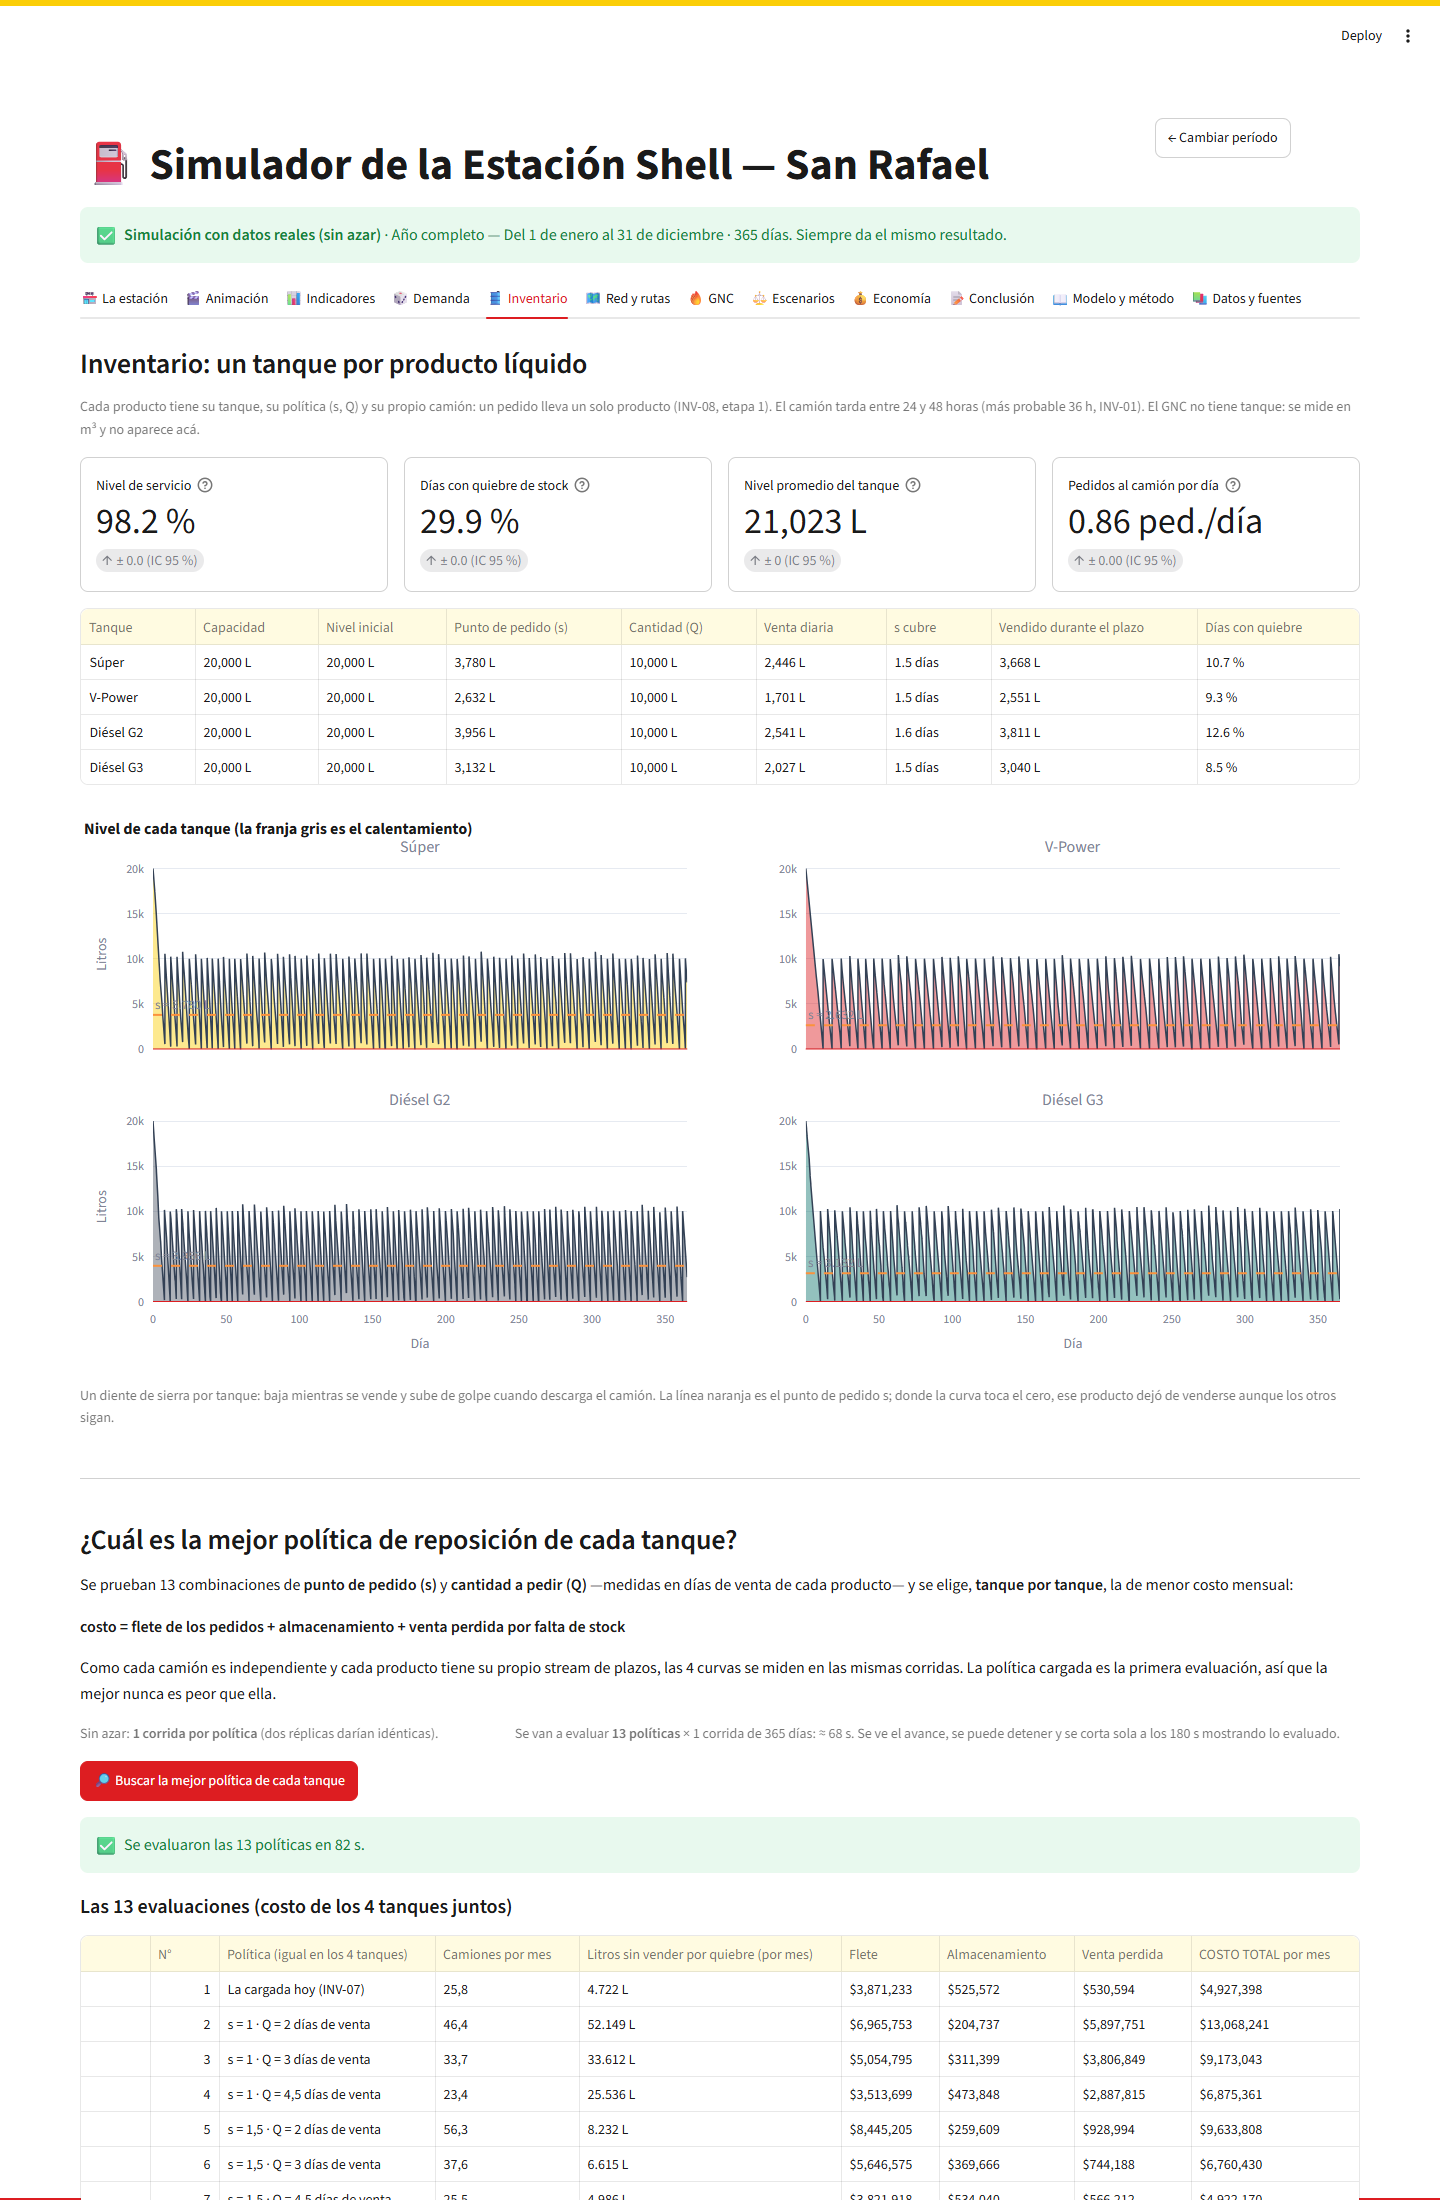
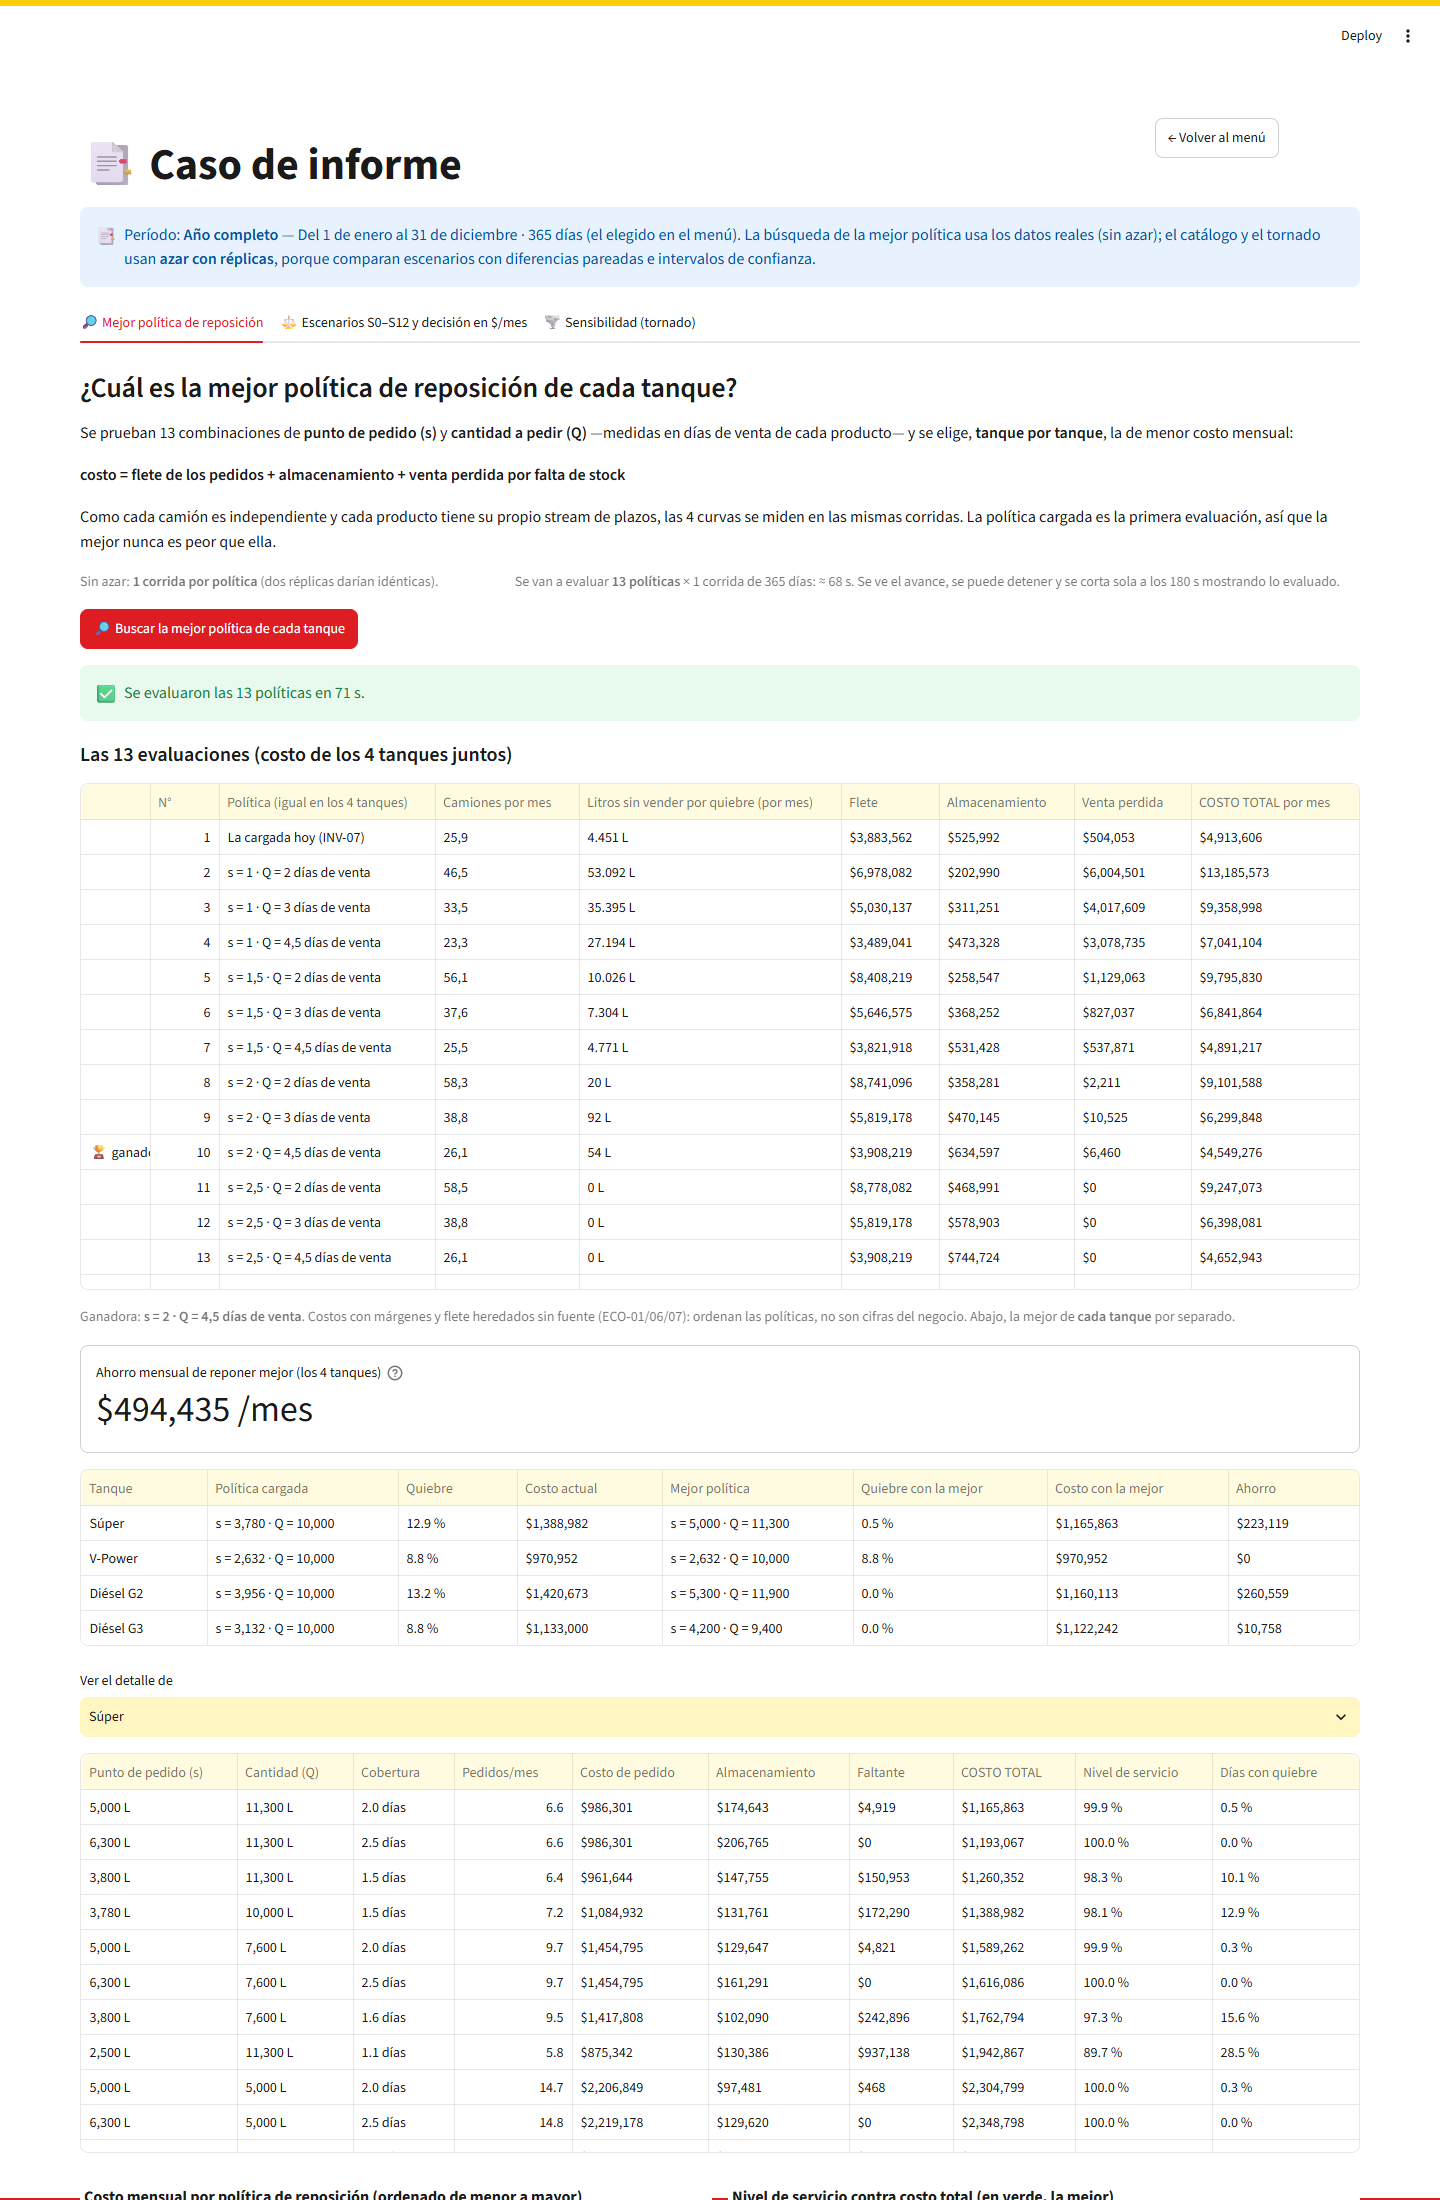
Cierre de la parte 2: CLAUDE.md al día (128 controles, lo que modela la app) y QA de la búsqueda en el caso de informe

Changed region(s): [[0.0312, 0.0618, 0.9688, 1.0]]

diff --git a/reports/qa_tanda0_busqueda.py b/reports/qa_tanda0_busqueda.py
@@ -1,7 +1,7 @@
 """QA de la tanda 0: la búsqueda de la mejor política no se cuelga (año completo).
 
-Corre el año completo con datos reales, aprieta "Buscar la mejor política", hace clics en otras pestañas
-mientras corre (no tiene que reiniciarse) y espera a que muestre las 13 evaluaciones con la ganadora.
+Elige el año completo, abre el Caso de informe (ahí vive la búsqueda desde la tanda 6), aprieta "Buscar la mejor
+política", hace clics en otras pestañas mientras corre (no tiene que reiniciarse) y espera las 13 evaluaciones.
 
     .venv/Scripts/python reports/qa_tanda0_busqueda.py http://localhost:8503 reports/qa/tanda0
 """
@@ -42,10 +42,10 @@ with sync_playwright() as pw:
 
     pagina.locator("[data-testid='stRadio'] label").filter(has_text="Año completo").first.click()
     quieto(30)
-    pagina.get_by_role("button", name="Simular con datos reales").click()
-    pagina.wait_for_selector("text=Simulación con datos reales (sin azar)", timeout=600000)
+    # Desde la tanda 6 la búsqueda vive en el Caso de informe (fuera del flujo normal).
+    pagina.get_by_role("button", name="Abrir el caso de informe").click()
+    pagina.wait_for_selector("text=Caso de informe", timeout=120000)
     quieto()
-    pestania("Inventario")
     t0 = time.time()
     pagina.get_by_role("button", name="Buscar la mejor política de cada tanque").click()
     pagina.wait_for_selector("text=Evaluando políticas", timeout=120000)
@@ -60,10 +60,9 @@ with sync_playwright() as pw:
             break
         # Mientras corre: otra pestaña y un radio de Indicadores (antes esto reiniciaba la búsqueda)
         if clics < 2 and m and int(m.group(1)) >= 3 + 4 * clics:
-            pestania("Indicadores")
-            pagina.locator("[data-testid='stRadio'] label").filter(has_text="Clientes").first.click()
+            pestania("Sensibilidad")
             time.sleep(1)
-            pestania("Inventario")
+            pestania("Mejor política")
             clics += 1
         time.sleep(1)
     duracion = time.time() - t0

diff --git a/CLAUDE.md b/CLAUDE.md
@@ -25,12 +25,17 @@ aspectos económicos. Colas, transporte, Montecarlo, etc."*
 - **Playón:** 12 caras en 3 zonas: A nafta (4), B diésel (2), C GNC (6); playeros por turno (1·2·2); cola finita;
   abandono; caja del minimarket.
 - **Demanda:** litros/mes (270.000) ⇒ clientes/día (≈ 252) con perfil horario, fin de semana ×1,30 normalizado,
-  estacionalidad neutra por defecto. Cada cliente: producto → tipo de vehículo → litros → ¿compra?
+  estacionalidad neutra + **calendario de temporadas** (verano, vacaciones de invierno de Mendoza 6–17/7, resto del
+  invierno; DEM-14/15, activo en la app y neutro en los parámetros por defecto). Cada cliente: producto → tipo de
+  vehículo → litros → ¿compra?
 - **Inventario:** un tanque por líquido, política (s, Q) por producto, camión por producto (plazo 24–36–48 h)
-  desde Dock Sud (991 km) o Luján por una red de rutas (Dijkstra) con cortes.
-- **GNC:** 3 compresores; episodios de corte total en jun–ago; el cliente pasa a Súper (30 %) o se pierde.
-- **Salidas:** indicadores con IC 95 %, 19 escenarios (S0–S12) con diferencias pareadas, estaciones del año,
-  economía mensual, tornado de sensibilidad. `verificar.py`: **118 controles**.
+  desde Dock Sud (991 km) por una red de rutas (Dijkstra) con cortes; orígenes alternativos Arroyo Seco y Luján
+  (apagados por defecto). Quiebres y litros no vendidos por causa.
+- **GNC:** 3 compresores; episodios de corte total en jun–ago (opción: más cortes en todo el invierno e invierno
+  frío); el cliente pasa a Súper (30 %) o se pierde.
+- **Salidas:** menú con ajustes (economía, GNC, calendario, abastecimiento) → resultados del período (sin azar) con
+  avisos con pausa en la animación; **escenario único** (una semana); **Caso de informe** aparte (mejor política,
+  S0–S12 con diferencias pareadas, tornado). `verificar.py`: **128 controles**.
 
 ## Reglas de oro (no romper)
 
@@ -50,7 +55,7 @@ aspectos económicos. Colas, transporte, Montecarlo, etc."*
 
 ```
 app.py            Streamlit (única entrada)
-verificar.py      118 controles
+verificar.py      128 controles
 sim/              MOTOR (sin Streamlit): datos · config · distribuciones · modelo · estadisticas · traza · runner
                   red · gnc · escenarios · economia · economia_real · sensibilidad
 ui/               PRESENTACIÓN: tema · animacion (SVG en JS) · graficos* · datos_ui · textos
@@ -62,7 +67,7 @@ research_notes/   notas de investigación verificadas
 
 ```bash
 .venv/Scripts/streamlit run app.py        # http://localhost:8501
-.venv/Scripts/python verificar.py         # 118 controles; en Windows: PYTHONIOENCODING=utf-8 PYTHONUTF8=1
+.venv/Scripts/python verificar.py         # 128 controles; en Windows: PYTHONIOENCODING=utf-8 PYTHONUTF8=1
 ```
 
 Rendimiento medido: réplica de un mes ≈ 0,4 s · un año ≈ 5 s · catálogo de 19 escenarios × 4 réplicas ≈ 34 s.
@@ -76,8 +81,8 @@ Rendimiento medido: réplica de un mes ≈ 0,4 s · un año ≈ 5 s · catálogo
 - Todo se calcula **por réplica** y recién después se promedia (IC 95 % y diferencias pareadas).
 - La venta perdida es un costo de oportunidad: se informa aparte y no se resta del margen.
 
-## Rediseño en curso
+## Rediseño y pulido
 
-El usuario pidió rehacer el flujo de la app (menú inicial por tiempo, simulación de todos los días, modo "datos
-reales" sin azar y modo "editar simulación", indicadores más claros, ajustes en un menú aparte). El plan por
-etapas está en **`ORQUESTADOR.md`**.
+Rediseño del flujo (etapas 1–4) y pulido en tandas 0–9 (13/10/2026): el plan, las decisiones y el avance de cada
+tanda están en **`ORQUESTADOR.md`** (§10–14). Las contradicciones entre fuentes se resolvieron con un criterio único
+(`research_notes/…/07_decisiones_fuentes.md`); la app muestra sólo el valor elegido y una frase general.
